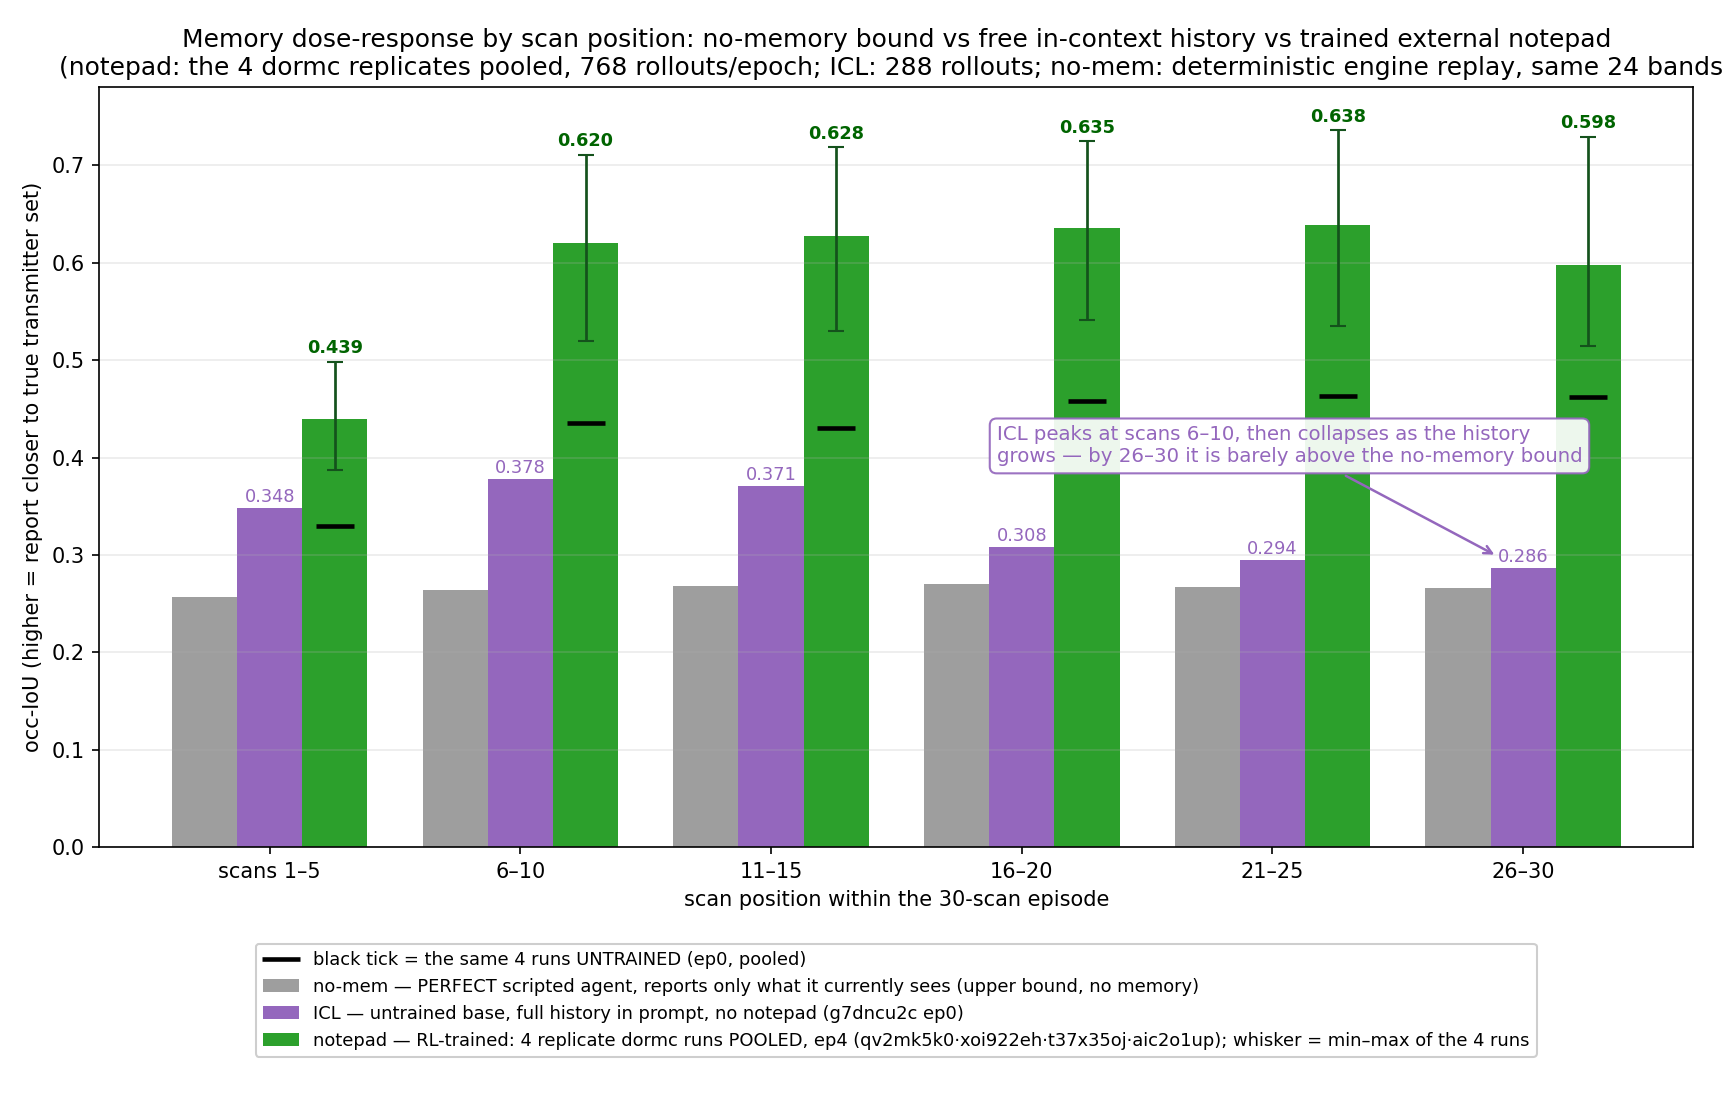
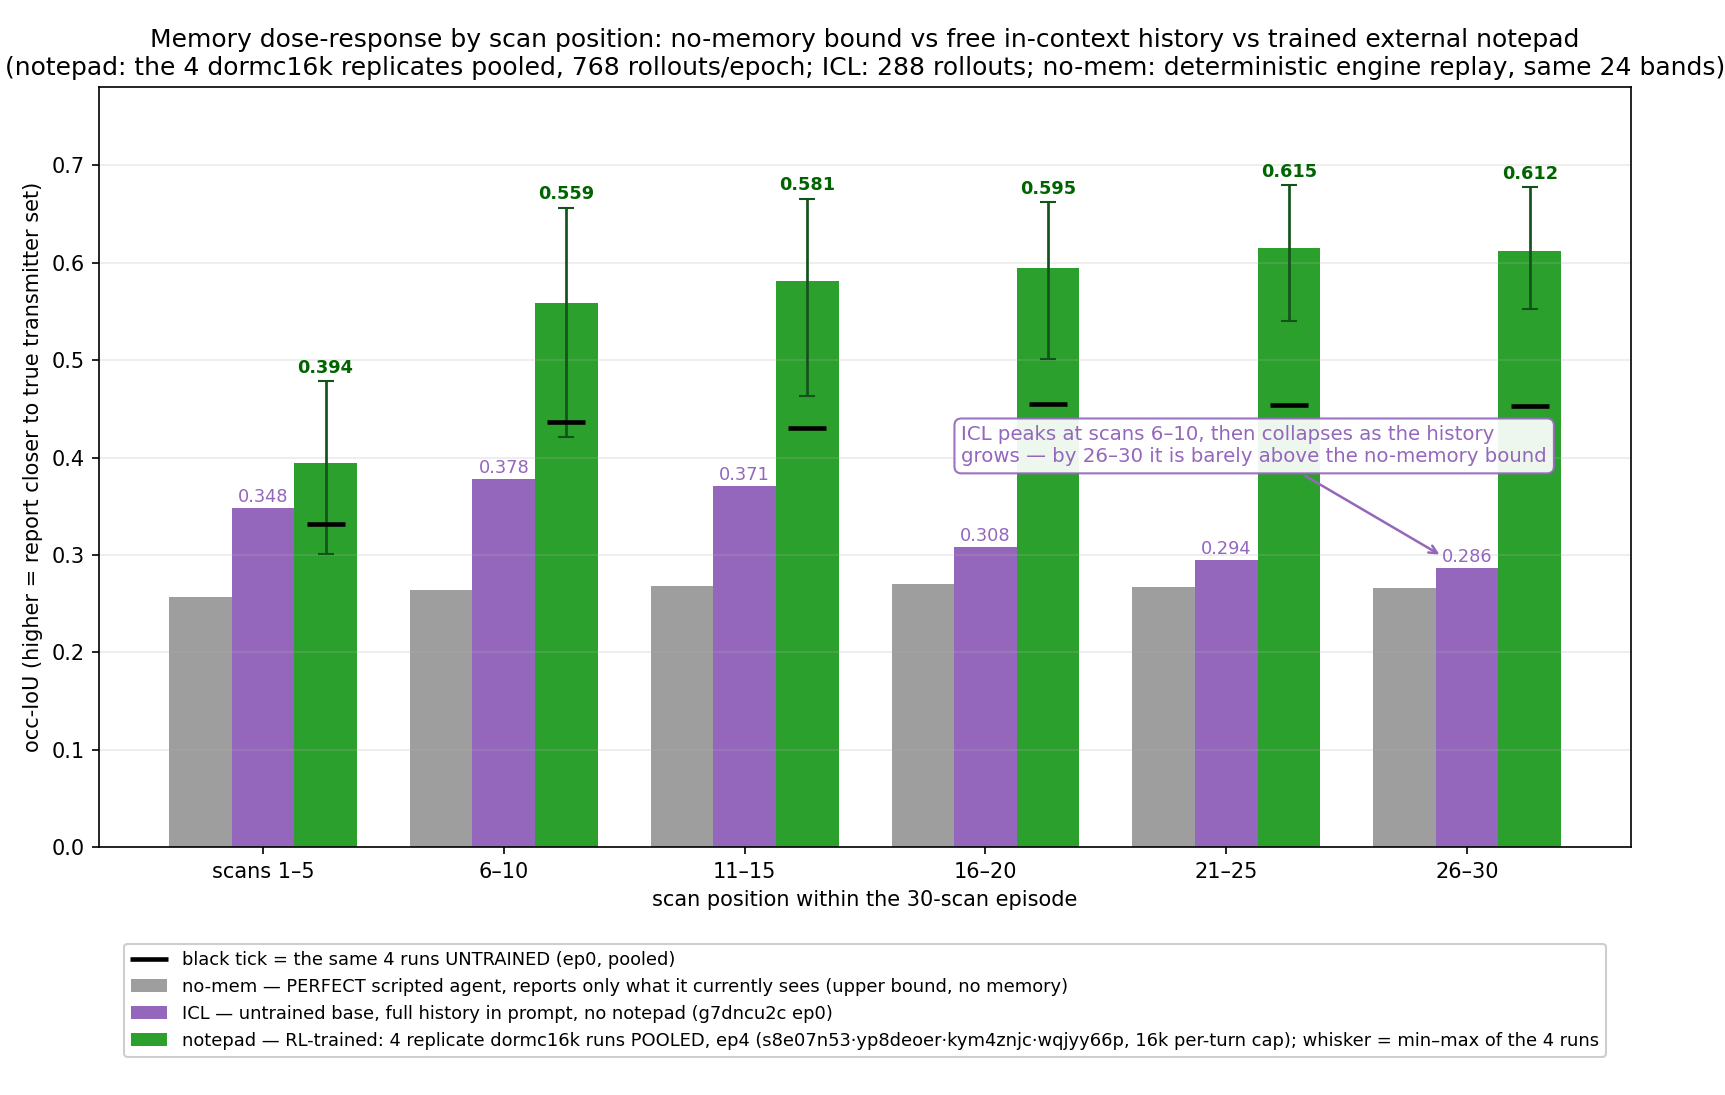
dormc16k verdict: memory repeats 4/4, cap-doubling largely cures truncation
- New timeline entry: per-run autopsy table (s8e07n53 +0.041/100% complete,
  yp8deoer +0.101/97%, kym4znjc +0.181/60%, wqjyy66p +0.182/90%), scan-1
  flat in all 4 (<= +0.0011, no weight baking), honesty box on anchor_dev
  drift + memory_gain fade in truncated epochs.
- Registry row dormc16k-1..4 -> COMPLETED with verdict.
- chart_icl_vs_notepad_bins.png regenerated: notepad bars now the 16k
  cohort (per standing directive); old entry's inline numbers updated to
  match (scan-1 0.216->0.217 flat, 16-30 0.454->0.607 vs ICL 0.297;
  survivorship now mild, per-bin n 3840->3171).
- New chart_dormc16k_verdict.png (+ generator) — two-panel verdict.

Claude-Session: https://claude.ai/code/session_01H2Z7Nh5FPyt4mwafjNixPD

diff --git a/LIVE_dormant_arm.html b/LIVE_dormant_arm.html
@@ -252,16 +252,20 @@ scaled ×3 (cosmetic, cancels within a GRPO group).</p>
         cap, not cheating, is the residual bottleneck → next arm raises it. Output models
         <span class="mono">clbench-canon-np-dormc1…4</span>.</td></tr>
 <tr><td class="mono">s8e07n53<br>yp8deoer<br>kym4znjc<br>wqjyy66p</td>
-    <td><b>dormc16k-1–4</b> (RUNNING; #1 done) — the anti-truncation arm</td>
+    <td><b>dormc16k-1–4</b> (COMPLETED) — the anti-truncation arm</td>
     <td>identical guarded reward to dormc1–4 (4 hinges incl. completion)</td>
     <td>one knob vs dormc1–4: per-turn output cap <b>8192 → 16384</b> tokens, so richer reports/thinking no
         longer kill the episode mid-run. Directly addresses the survivorship worry: with no truncation, no
         scan is ever filtered out of the eval. 4th copy (<code>wqjyy66p</code>) added 2026-07-13 at the
         user's request.</td>
-    <td>RUNNING. Early: 13 epoch-evals in, <code>scans_completed</code> 29.2–30.0 everywhere (no
-        truncation), mean_dorm rising 0.44→0.49/0.53/0.50. dormc16k-1 (<code>s8e07n53</code>) COMPLETED:
-        scans 30.0 flat all 5 epochs, dorm 0.447→0.488. Output models
-        <span class="mono">clbench-canon-np-dormc16k-1…4</span>.</td></tr>
+    <td class="warn">ALL 4 COMPLETED — <b>memory-learning repeats AND truncation is largely cured.</b>
+        Scan-1 flat in all 4 (+0.0004…+0.0011, clean); complete-episode mean_dorm up in every run
+        (+0.041 / +0.101 / +0.181 / +0.182); ep4 scans_completed 30.0 / 29.6 / 27.0 / 29.2 —
+        3 of 4 finish ≥29 scans (dormc at 8k managed 1 of 4). Residual: <code>kym4znjc</code>
+        (60% complete at ep4, pen_complete 0.078 rising) — again a big-gain run, so the
+        gain↔truncation coupling is weakened but not dead. Score ep0→ep4:
+        1.301→1.433 / 1.288→1.587 / 1.286→1.320 / 1.261→1.766. See the verdict timeline entry.
+        Output models <span class="mono">clbench-canon-np-dormc16k-1…4</span>.</td></tr>
 <tr><td class="mono">aesye5sz<br>moh612qy<br>upbrxew7<br>w6swb23z</td>
     <td><b>screening study scr1–scr4</b> (RUNNING) — 4 identical copies</td>
     <td>identical reward to pscoc9fp (dormant coverage − 3 guards)</td>
@@ -413,6 +417,60 @@ policy actually changed, beyond the score curves.</dd>
 
 <h2>Timeline (newest first)</h2>
 <!-- ENTRIES:TOP -->
+
+<div class="entry">
+<div class="ts">2026-07-13 ~18:00 <span class="tag">DORMC16K VERDICT — ONE KNOB (TOKEN CAP ×2) LARGELY CURES TRUNCATION, MEMORY-LEARNING REPEATS 4/4 ✅</span><span class="runid">runs s8e07n53 · yp8deoer · kym4znjc · wqjyy66p</span></div>
+<p>All four dormc16k replicates are done. Recap of the experiment: these are <i>exact copies</i> of the
+dormc completion-guard runs (same guarded reward, same 24 bands, same lr 2e-4 / 5 epochs / 8 candidates)
+with <b>one knob changed</b> — the per-turn output cap raised 8192 → 16384 tokens. The 8k cohort's verdict
+was "memory-learning repeats, but 3 of 4 runs balloon their reports and truncate episodes to 20–25 scans;
+the cap, not cheating, is the bottleneck". If that diagnosis was right, doubling the cap should keep the
+memory gains <i>and</i> restore full episodes. It mostly did.</p>
+<p><b>Per-run verdict</b> (complete-episode slices from the rollout autopsy, ep0 → ep4; 192 rollouts per
+epoch per run):</p>
+<table>
+<tr><th>run</th><th>scan-1 shift<br>(baking detector)</th><th>complete-episode mean_dorm</th>
+    <th>ep4 scans / %complete</th><th>Score ep0→ep4</th></tr>
+<tr><td class="mono">s8e07n53</td><td>+0.0005 (flat)</td><td>0.447 → 0.488 <span class="good">(+0.041)</span></td>
+    <td><b>30.0 / 100%</b></td><td>1.301 → 1.433</td></tr>
+<tr><td class="mono">yp8deoer</td><td>+0.0004 (flat)</td><td>0.444 → 0.545 <span class="good">(+0.101)</span></td>
+    <td>29.6 / 97%</td><td>1.288 → 1.587</td></tr>
+<tr><td class="mono">kym4znjc</td><td>+0.0011 (flat)</td><td>0.443 → 0.624 <span class="good">(+0.181)</span></td>
+    <td><span class="bad">27.0 / 60%</span></td><td>1.286 → 1.320</td></tr>
+<tr><td class="mono">wqjyy66p</td><td>+0.0005 (flat)</td><td>0.445 → 0.626 <span class="good">(+0.182)</span></td>
+    <td>29.2 / 90%</td><td>1.261 → 1.766</td></tr>
+</table>
+<p><img src="live_assets/chart_dormc16k_verdict.png" alt="dormc16k verdict: complete-episode mean_dorm rose in all 4 runs (panel A); scans_completed held ≥29 in 3 of 4 (panel B)" style="max-width:100%"></p>
+<p><b>What held.</b> (1) <b>Memory-learning repeats: 4 of 4 again.</b> Complete-episode dormant coverage
+rose in every copy, and the scan-1 baking detector is dead flat everywhere (≤ +0.001) — on the very first
+scan there is nothing in the notepad, so a trained model that beat its untrained self there would be
+carrying band knowledge in its weights; none does. The gains are notepad, not weights.
+(2) <b>The cap really was the bottleneck.</b> At 8k, only 1 of 4 runs finished its episodes; at 16k, 3 of 4
+finish ≥ 29 of 30 scans, and the run that stayed perfectly complete (<code>s8e07n53</code>, 30.0 flat across
+all five epochs) also posted the cleanest <i>rising</i> memory_gain curve of the cohort
+(0.058 → 0.136, monotone). <code>yp8deoer</code> is the best all-rounder: Score climbs essentially
+monotonically to the cohort-best trend (1.288 → 1.587), dorm +0.101, 97% complete.</p>
+<p><b>What didn't fully hold.</b> <code>kym4znjc</code> re-created the 8k failure in miniature: the biggest
+dorm gain (+0.181, tied with wqjyy66p) but episodes fall to 27.0 scans / 60% complete at ep4, with
+pen_complete rising all run (0 → 0.078) and a pen_wmax spike (0.089) at ep4 — so its Score actually
+<i>sags</i> to 1.320 despite the best memory. The pattern from the 8k cohort — the hungriest memory-learners
+overrun whatever budget exists — survives the bigger cap in 1 of 4 copies. <code>wqjyy66p</code> showed the
+same drift at ep3 (25.8 scans, pen_complete 0.131) and then <b>self-corrected</b> at ep4 (29.2 scans,
+pen_complete 0.013), which is the guard doing its job.</p>
+<p>The dose-response chart (Part 2 of the ICL-comparison entry below) has been regenerated with these four
+runs as the notepad bars: pooled ep4 late-window occ-IoU is 0.607 vs ICL's 0.297 — the picture is unchanged,
+now with far less survivorship caveat (per-bin n falls only to 3171, was 1465).</p>
+<p><small><b>Honesty box — drift watch and what "flat Score" hides.</b> Two soft spots, both disclosed
+rather than resolved: (1) anchor_dev creeps up in the two big-gain runs (kym4znjc 0.032 → 0.082,
+wqjyy66p 0.034 → 0.074) — still below the hinge's bite but the direction is wrong; the scan-1 rollout
+measure stays flat, so this is drift in the reward's anchor bookkeeping, not detectable weight-baking.
+(2) wqjyy66p's memory_gain metric peaked mid-run (0.112 at ep2) and faded to 0.070 at ep4 even as
+complete-episode dorm kept rising — the per-epoch metric mixes truncated episodes in, so the autopsy's
+complete-episode slice is the number we trust. Per our own curve-reading rule, all trend claims here are
+early-vs-late-half comparisons across 4 replicates, not single-epoch peaks. And to be explicit about the
+weakest copy: s8e07n53's +0.041 is a small gain — the cohort's claim is "4/4 positive direction,
++0.04 to +0.18 range", not "+0.18 everywhere".</small></p>
+</div>
 
 <div class="entry">
 <div class="ts">2026-07-13 ~17:00 <span class="tag">STAGE 2 BUILT + SMOKE-TESTED: ONE EVALUATOR, TWO TASKS — THE MIX DISPATCHER WORKS 🔀</span><span class="runid">offline + 2-row live smoke — no training GPU spent</span></div>
@@ -1107,39 +1165,40 @@ rollouts — just full history and no notepad. The chart groups the episode into
 compares three conditions: <b>no-mem</b> (grey — a <i>perfect scripted</i> agent that reports exactly the
 channels currently visible, replayed through the real task engine on the same 24 bands: the ceiling for any
 agent without memory), <b>ICL</b> (purple — untrained base, full history in the prompt), and <b>notepad</b>
-(green — RL-trained: the <b>4 dormc completion-guard replicates pooled</b>, <code>qv2mk5k0</code> ·
-<code>xoi922eh</code> · <code>t37x35oj</code> · <code>aic2o1up</code> at epoch&nbsp;4, 768 rollouts/epoch;
+(green — RL-trained: the <b>4 dormc16k replicates pooled</b>, <code>s8e07n53</code> ·
+<code>yp8deoer</code> · <code>kym4znjc</code> · <code>wqjyy66p</code> at epoch&nbsp;4, 768 rollouts/epoch;
 the whisker is the min–max across the 4 individual runs — the repeatability spread — and the black tick
 marks the <i>same 4 runs untrained</i> (ep0, pooled), so the training gain is the green above the tick).
-<i>(Chart updated 2026-07-13: per review, the notepad bars now use only the dormc replication runs rather
-than the single legacy pscoc9fp run.)</i></p>
+<i>(Chart updated twice on 2026-07-13: first per review to use only dormc replication runs; then, once the
+dormc16k cohort completed, its 4 runs replaced the 8k ones — same design, per-turn cap 16384, far less
+truncation. Numbers below match the current chart.)</i></p>
 
 <img src="live_assets/chart_icl_vs_notepad_bins.png" alt="occ-IoU by 5-scan bin: no-memory bound vs untrained full-history ICL vs RL-trained notepad (black tick = untrained notepad)">
 
 <p><small>Fine-grained slices (the 5-scan bins above average away the scan-1/scan-2 detail):</small></p>
 <table>
-<tr><th>scan slice</th><th>notepad untrained <span class="runid">dormc1–4 ep0, pooled</span></th>
-    <th>notepad RL-trained <span class="runid">dormc1–4 ep4, pooled</span></th>
+<tr><th>scan slice</th><th>notepad untrained <span class="runid">dormc16k-1–4 ep0, pooled</span></th>
+    <th>notepad RL-trained <span class="runid">dormc16k-1–4 ep4, pooled</span></th>
     <th>ICL, no training <span class="runid">g7dncu2c ep0</span></th></tr>
-<tr><td>scan 1 (no memory possible)</td><td>0.217</td><td>0.217 <b>(+0.000 — the clean-memory discriminator)</b></td><td>0.210</td></tr>
-<tr><td>scan 2</td><td>0.283</td><td>0.361 <span class="good">(+0.078)</span></td><td>0.337</td></tr>
-<tr><td>scans 3–5</td><td>0.382</td><td>0.539 <span class="good">(+0.157)</span></td><td>0.398</td></tr>
-<tr><td>scans 16–30 (late)</td><td>0.461</td><td><b>0.629</b> <span class="good">(+0.168)</span></td><td><span class="bad">0.297</span></td></tr>
+<tr><td>scan 1 (no memory possible)</td><td>0.216</td><td>0.217 <b>(+0.001 — the clean-memory discriminator)</b></td><td>0.210</td></tr>
+<tr><td>scan 2</td><td>0.286</td><td>0.331 <span class="good">(+0.045)</span></td><td>0.337</td></tr>
+<tr><td>scans 3–5</td><td>0.385</td><td>0.475 <span class="good">(+0.090)</span></td><td>0.398</td></tr>
+<tr><td>scans 16–30 (late)</td><td>0.454</td><td><b>0.607</b> <span class="good">(+0.153)</span></td><td><span class="bad">0.297</span></td></tr>
 </table>
 
 <p><b>1. Early on, free history is competitive — against the <i>untrained</i> notepad it wins at scan 2.</b>
-At scan 2 the untrained ICL model scores 0.337 vs the untrained notepad's 0.283: reading the previous report
+At scan 2 the untrained ICL model scores 0.337 vs the untrained notepad's 0.286: reading the previous report
 straight out of the prompt costs nothing, while writing a notepad and reading it back is a skill the base
-model only partly has. Training closes exactly this gap — the trained notepad takes scan 2 (0.361) and the
-whole 1–5 bin (0.439 vs 0.348).</p>
+model only partly has. Training closes most of this gap — the trained notepad ties scan 2 (0.331 vs 0.337)
+and takes the whole 1–5 bin (0.394 vs 0.348).</p>
 <p><b>2. Late — where memory actually matters — ICL collapses toward the no-memory bound.</b> ICL peaks in
 the 6–10 bin (0.378) and then decays monotonically: 0.371 → 0.308 → 0.294 → <b>0.286</b> at scans 26–30 —
 barely above the perfect no-memory agent's 0.266. By scan 25 the prompt holds ~25 scans of raw text and the
 1.7B loses the facts buried in the middle of it, so the "free" history buys almost nothing anymore. The
-trained notepad holds 0.60–0.64 across every bin from 6–10 onward — at 26–30 it scores <b>0.598</b>
-(<span class="good">+0.31 over ICL, +0.33 over the no-memory bound</span>), and even the <i>untrained</i>
-notepad (black tick, 0.462) beats ICL late by +0.18. The whiskers show all 4 replicate runs agree on the
-direction: even the <i>weakest</i> run's late bins (~0.52) sit far above ICL.</p>
+trained notepad holds 0.56–0.62 across every bin from 6–10 onward — at 26–30 it scores <b>0.612</b>
+(<span class="good">+0.33 over ICL, +0.35 over the no-memory bound</span>), and even the <i>untrained</i>
+notepad (black tick, 0.453) beats ICL late by +0.17. The whiskers show all 4 replicate runs agree on the
+direction: even the <i>weakest</i> run's late bins (~0.50–0.55) sit far above ICL.</p>
 <p><b>3. Footnote: training doesn't rescue ICL either.</b> Run <code>g7dncu2c</code> did go on to train for
 8 epochs on the dense-occ reward: its late scans only recovered to 0.330 while scans 2–5 got <i>worse</i>
 (scan 2: 0.338→0.308) — it learned to degrade less over a long context, not to accumulate. Details in its
@@ -1150,19 +1209,19 @@ size, it is only better while the history is short; where memory matters most it
 three bars. The notepad is not a workaround for the wiped context — it is a compression format (29 scans
 squeezed into ~13 short lines, always at the bottom of the prompt) that a small model can actually read.</p>
 
-<p><small><b>Honesty box — what is and isn't controlled.</b> The notepad bars are the 4 dormc
-completion-guard replicates pooled (guarded reward, lr&nbsp;2e-4, 8 candidates; 4×192 = 768 rollouts per
-epoch), scored with the same per-scan occ-IoU as everything else. <b>Survivorship caveat:</b> at ep4, 3 of
-the 4 runs truncate some episodes mid-run (the token-cap issue in the verdict entry), so the late bins
-contain only scans actually played — per-bin sample count falls from 3840 (scans 1–5) to 1465 (scans
-26–30). The rollout autopsy showed complete ≈ truncated episodes on memory score, so the bias is small, but
-the late-bin dip (0.638 → 0.598) partly reflects this changing composition. Scan-1 is 0.217 = 0.217
-untrained vs trained — the clean-memory discriminator, flat. The ICL bar is the epoch-0 eval of
-<code>g7dncu2c</code>: raw base qwen3-1p7b, zero training applied, full history, no notepad (288 rollouts).
-Not identical to the notepad arm: its dataset is <code>canon-nudge24</code> (slightly different
-system-prompt wording — hence its scan-1 floor 0.210 vs 0.217; both are statistically at the memoryless
-floor, SE ±0.005) and its per-call token cap was 4096 vs 8192 (irrelevant for the untrained-bar reading,
-since ICL pays for memory in <i>input</i> tokens, not output). The pre-canon ICL-era runs in the registry
+<p><small><b>Honesty box — what is and isn't controlled.</b> The notepad bars are the 4 dormc16k
+replicates pooled (guarded reward, lr&nbsp;2e-4, 8 candidates, 16384 per-turn cap; 4×192 = 768 rollouts per
+epoch), scored with the same per-scan occ-IoU as everything else. <b>Survivorship caveat, now small:</b> at
+ep4 completion is 100 / 97 / 60 / 90% across the 4 runs (only <code>kym4znjc</code> truncates heavily), so
+the late bins contain only scans actually played — per-bin sample count falls from 3840 (scans 1–5) to 3171
+(scans 26–30), far milder than the 8k cohort's fall to 1465. The rollout autopsy showed complete ≈ truncated
+episodes on memory score, so the residual bias is small (the 21–25 → 26–30 change is 0.615 → 0.612).
+Scan-1 is 0.216 vs 0.217 untrained vs trained — the clean-memory discriminator, flat. The ICL bar is the
+epoch-0 eval of <code>g7dncu2c</code>: raw base qwen3-1p7b, zero training applied, full history, no notepad
+(288 rollouts). Not identical to the notepad arm: its dataset is <code>canon-nudge24</code> (slightly
+different system-prompt wording — hence its scan-1 floor 0.210 vs 0.216; both are statistically at the
+memoryless floor, SE ±0.005) and its per-call token cap was 4096 vs 16384 (irrelevant for the untrained-bar
+reading, since ICL pays for memory in <i>input</i> tokens, not output). The pre-canon ICL-era runs in the registry
 footnote remain non-comparable; <code>g7dncu2c</code> is the one apples-to-apples ICL reference. <b>The
 no-mem bar is not a model</b>: it is a deterministic scripted policy (report exactly the currently visible
 channels) replayed through the real task engine on the same 24 bands — an <i>upper bound</i> for memoryless

diff --git a/live_assets/chart_dormc16k_verdict.py b/live_assets/chart_dormc16k_verdict.py
@@ -1,0 +1,61 @@
+"""dormc16k verdict chart: same 4-replicate design as dormc but with the per-turn output cap
+raised 8192 -> 16384 (the single lever). Two panels:
+  A) complete-episode mean_dorm ep0->ep4 rose in ALL 4 runs again (scan-1 flat everywhere ->
+     clean notepad use, not weight baking).
+  B) scans_completed ep4: the 16k cap fixed truncation for 3 of 4 runs (>=29 scans); only
+     kym4znjc still drops (27.0, 60% complete) — and it is again a big-gain run, so the
+     gain<->truncation coupling is weakened but not gone.
+Data from autopsy_16k.py (complete-episode slices) + Output Stats epoch curves."""
+import matplotlib
+matplotlib.use("Agg")
+import matplotlib.pyplot as plt
+import numpy as np
+
+REPO = "/Users/sten/Documents/Coding/fireworks/clbench-fireworks-rft"
+
+# ordered by memory gain
+runs   = ["s8e07n53", "yp8deoer", "kym4znjc", "wqjyy66p"]
+dorm0  = [0.447, 0.444, 0.443, 0.445]   # complete-episode mean_dorm, ep0
+dorm4  = [0.488, 0.545, 0.624, 0.626]   # complete-episode mean_dorm, ep4
+scan0  = [29.953, 29.969, 29.969, 29.969]
+scan4  = [29.953, 29.589, 27.010, 29.182]
+
+x = np.arange(len(runs)); w = 0.38
+fig, (axA, axB) = plt.subplots(1, 2, figsize=(12.5, 5.6))
+
+# ---- Panel A: complete-episode memory gain ----
+axA.bar(x - w/2, dorm0, w, color="0.7", label="ep0 (untrained base)")
+axA.bar(x + w/2, dorm4, w, color="tab:green", label="ep4 (RL-trained)")
+for i in range(len(runs)):
+    axA.annotate(f"+{dorm4[i]-dorm0[i]:.3f}", xy=(x[i]+w/2, dorm4[i]),
+                 xytext=(0, 4), textcoords="offset points", ha="center",
+                 fontsize=9, color="darkgreen", fontweight="bold")
+axA.set_xticks(x); axA.set_xticklabels(runs, fontsize=9)
+axA.set_ylabel("complete-episode mean_dorm (recallable-channel coverage)")
+axA.set_title("A. Memory rose on FINISHED episodes in ALL 4 copies\n"
+              "(scan-1 shift ≤ +0.001 in every run -> notepad, not weights)")
+axA.set_ylim(0, 0.80); axA.legend(loc="upper left", fontsize=9, framealpha=0.95)
+axA.grid(axis="y", alpha=0.25)
+
+# ---- Panel B: scans_completed (truncation mostly fixed) ----
+axB.axhline(28, ls="--", color="tab:red", lw=1.2, alpha=0.8)
+axB.text(-0.55, 26.6, "grace floor (28)\nguard = 0 above", color="tab:red",
+         fontsize=8.5, va="top", ha="left")
+axB.bar(x - w/2, scan0, w, color="0.7", label="ep0")
+axB.bar(x + w/2, scan4, w, color="tab:orange", label="ep4")
+for i in range(len(runs)):
+    axB.annotate(f"{scan4[i]:.1f}", xy=(x[i]+w/2, scan4[i]),
+                 xytext=(0, 4), textcoords="offset points", ha="center",
+                 fontsize=9, color="#b45309", fontweight="bold")
+axB.set_xticks(x); axB.set_xticklabels(runs, fontsize=9)
+axB.set_ylabel("scans_completed (of 30)")
+axB.set_title("B. 16k cap fixed truncation for 3 of 4 runs\n"
+              "(only kym4znjc still drops scans — again a big-gain run)")
+axB.set_ylim(0, 32); axB.legend(loc="lower left", fontsize=9, framealpha=0.95)
+axB.grid(axis="y", alpha=0.25)
+
+fig.suptitle("dormc16k verdict — one lever (cap 8192 -> 16384): memory repeats 4/4,\n"
+             "truncation largely cured (3/4 finish ≥ 29 scans)", fontsize=12, fontweight="bold")
+fig.tight_layout(rect=[0, 0, 1, 0.90])
+fig.savefig(f"{REPO}/live_assets/chart_dormc16k_verdict.png", dpi=150)
+print("written chart_dormc16k_verdict.png")

diff --git a/live_assets/chart_icl_vs_notepad_bins.py b/live_assets/chart_icl_vs_notepad_bins.py
@@ -3,13 +3,13 @@
             widths) run through the real task engine on the same 24 bands -> an UPPER BOUND for any
             agent without memory (same reference + caveat as chart_saturation).
   ICL     = untrained base model, full history in prompt, no notepad (g7dncu2c ep0, 288 rollouts).
-  notepad = the 4 dormc completion-guard replicate runs (qv2mk5k0, xoi922eh, t37x35oj, aic2o1up),
+  notepad = the 4 dormc16k replicate runs (s8e07n53, yp8deoer, kym4znjc, wqjyy66p — 16384 per-turn cap),
             POOLED: green bar = ep4 (trained, 4x192=768 rollouts), whisker = min-max of the 4 per-run
             means (the repeatability spread), black tick = same 4 runs at ep0 (untrained, pooled).
-Per user request the notepad bars use ONLY the dormc runs (not the legacy pscoc9fp arm).
-Caveat printed + shown on page: at ep4, 3 of 4 runs truncate episodes mid-run, so late bins contain only
-scans actually played (per-bin n shrinks; the autopsy showed complete ~= truncated dorm, so the bias is
-small, but it is a survivorship effect and is disclosed)."""
+Per user request the notepad bars use ONLY dormc runs; the 16k cohort now replaces the 8k one.
+Caveat printed + shown on page: at ep4 completion is 100/97/60/90 percent (only kym4znjc truncates
+heavily), so late bins contain only scans actually played — a much smaller survivorship effect than
+the 8k cohort's, but still disclosed."""
 import json
 import re
 import sys
@@ -35,7 +35,7 @@ from src.tasks.blind_spectrum_monitoring.task import ScanReport, Transmitter  # 
 OCC = re.compile(r"SCAN_OCC:\s*([0-9.]+)")
 BINS = [(0, 5), (5, 10), (10, 15), (15, 20), (20, 25), (25, 30)]
 LABELS = ["scans 1–5", "6–10", "11–15", "16–20", "21–25", "26–30"]
-DORMC = ["qv2mk5k0", "xoi922eh", "t37x35oj", "aic2o1up"]
+DORMC = ["s8e07n53", "yp8deoer", "kym4znjc", "wqjyy66p"]
 _VARIANTS = {st["variant"]: st["kwargs"] for st in load_default_schedule()}
 
 
@@ -139,8 +139,8 @@ ax.bar(x, icl, w, color="tab:purple",
 ax.bar(x + w, np4, w, color="tab:green",
        yerr=[np.subtract(np4, lo4), np.subtract(hi4, np4)], capsize=4,
        error_kw=dict(lw=1.3, ecolor="#14521c"),
-       label="notepad — RL-trained: 4 replicate dormc runs POOLED, ep4 "
-             "(qv2mk5k0·xoi922eh·t37x35oj·aic2o1up); whisker = min–max of the 4 runs")
+       label="notepad — RL-trained: 4 replicate dormc16k runs POOLED, ep4 "
+             "(s8e07n53·yp8deoer·kym4znjc·wqjyy66p, 16k per-turn cap); whisker = min–max of the 4 runs")
 ax.plot(x + w, np0, marker="_", markersize=18, markeredgewidth=2.2, ls="none", color="black",
         label="black tick = the same 4 runs UNTRAINED (ep0, pooled)")
 for i in range(len(LABELS)):
@@ -159,7 +159,7 @@ ax.set_xticklabels(LABELS)
 ax.set_xlabel("scan position within the 30-scan episode")
 ax.set_ylabel("occ-IoU (higher = report closer to true transmitter set)")
 ax.set_title("Memory dose-response by scan position: no-memory bound vs free in-context history vs "
-             "trained external notepad\n(notepad: the 4 dormc replicates pooled, 768 rollouts/epoch; "
+             "trained external notepad\n(notepad: the 4 dormc16k replicates pooled, 768 rollouts/epoch; "
              "ICL: 288 rollouts; no-mem: deterministic engine replay, same 24 bands)")
 ax.legend(loc="upper center", bbox_to_anchor=(0.5, -0.115), fontsize=8.6, framealpha=0.95)
 ax.grid(axis="y", alpha=0.25)